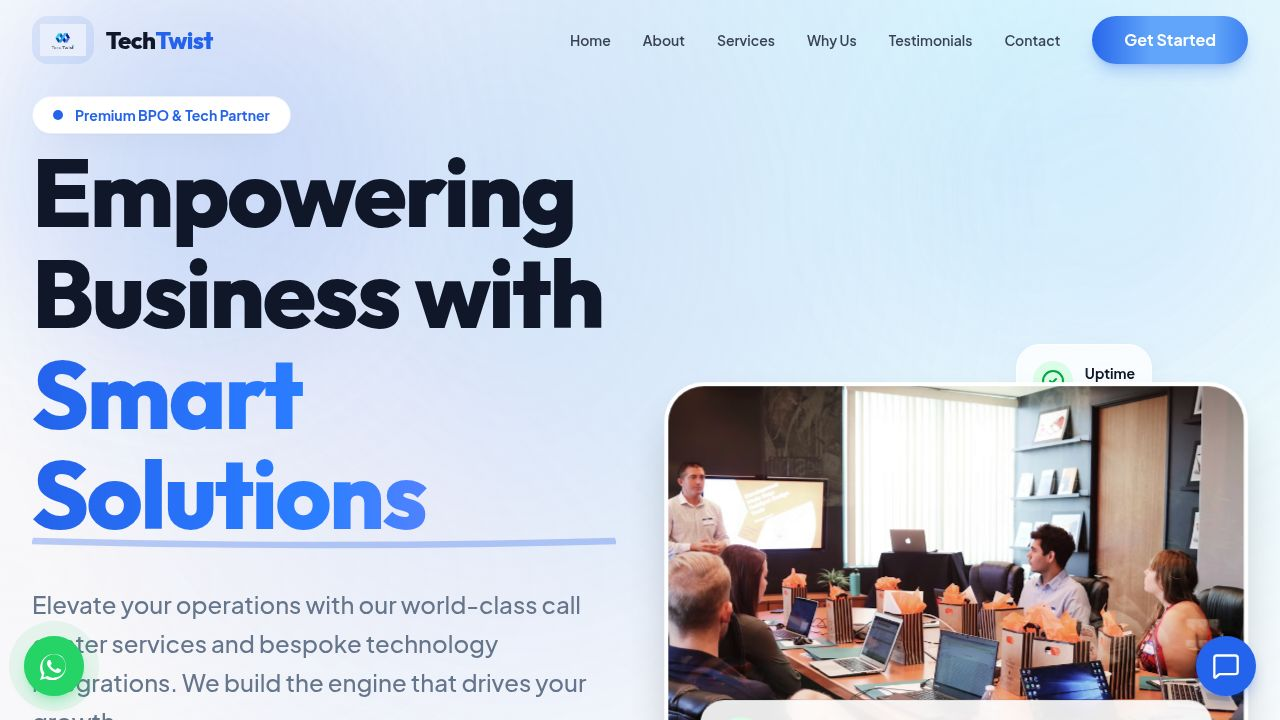
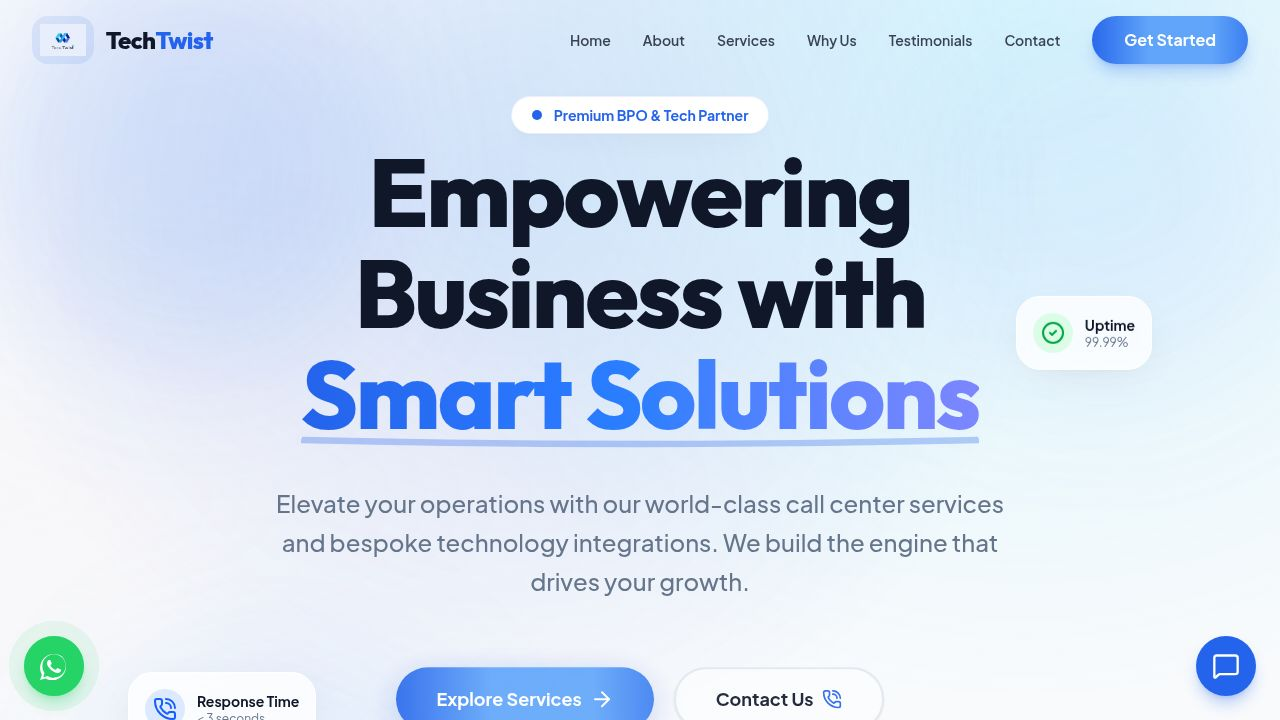
Remove the main image from the hero section and center content
Removes the right-side hero image and badge from `HeroSection.tsx` and adjusts layout and stats grid alignment. Also removes `opengraph.jpg`.

Replit-Commit-Author: Agent
Replit-Commit-Session-Id: a98e836a-7b45-4a6f-8c2e-8d22522812c9
Replit-Commit-Checkpoint-Type: full_checkpoint
Replit-Commit-Event-Id: 12e49693-ef15-4ae7-9519-c1db8b6c2a5f
Replit-Commit-Screenshot-Url: https://storage.googleapis.com/screenshot-production-us-central1/b10f4f53-28a6-49d7-90fb-6a129ad73a52/a98e836a-7b45-4a6f-8c2e-8d22522812c9/G5aOB1Z
Replit-Helium-Checkpoint-Created: true

diff --git a/artifacts/tech-twist/src/components/sections/HeroSection.tsx b/artifacts/tech-twist/src/components/sections/HeroSection.tsx
@@ -17,12 +17,12 @@ export function HeroSection() {
       </div>
 
       <div className="relative z-10 max-w-7xl mx-auto px-4 sm:px-6 lg:px-8">
-        <div className="grid lg:grid-cols-2 gap-12 items-center">
+        <div className="flex flex-col items-center text-center">
         <motion.div
           initial={{ opacity: 0, y: 40 }}
           animate={{ opacity: 1, y: 0 }}
           transition={{ duration: 0.8, ease: [0.16, 1, 0.3, 1] }}
-          className="space-y-10"
+          className="space-y-10 max-w-4xl"
         >
           <motion.div 
             initial={{ opacity: 0, scale: 0.9 }}
@@ -55,7 +55,7 @@ export function HeroSection() {
             initial={{ opacity: 0, y: 20 }}
             animate={{ opacity: 1, y: 0 }}
             transition={{ delay: 0.4, duration: 0.5 }}
-            className="flex flex-col sm:flex-row items-center justify-center gap-5 pt-6"
+            className="flex flex-col sm:flex-row items-center justify-center gap-5 pt-6 w-full"
           >
             <Button 
               size="lg" 
@@ -81,14 +81,14 @@ export function HeroSection() {
             transition={{ delay: 0.8, duration: 1 }}
             className="pt-16 pb-4"
           >
-            <div className="grid grid-cols-2 md:grid-cols-4 gap-8 md:gap-4 max-w-4xl border-t border-border/50 pt-8">
+            <div className="grid grid-cols-2 md:grid-cols-4 gap-8 md:gap-4 max-w-3xl mx-auto border-t border-border/50 pt-8">
               {[
                 { label: "Active Clients", value: "500+" },
                 { label: "Years Experience", value: "10+" },
                 { label: "Satisfaction", value: "99%" },
                 { label: "Support", value: "24/7" }
               ].map((stat, i) => (
-                <div key={i} className="flex flex-col items-start sm:items-center">
+                <div key={i} className="flex flex-col items-center">
                   <div className="text-3xl md:text-4xl font-extrabold text-foreground mb-1">{stat.value}</div>
                   <div className="text-sm font-semibold text-muted-foreground uppercase tracking-wider">{stat.label}</div>
                 </div>
@@ -96,37 +96,6 @@ export function HeroSection() {
             </div>
           </motion.div>
         </motion.div>
-
-        {/* Right side image */}
-        <motion.div
-          initial={{ opacity: 0, scale: 0.9, x: 20 }}
-          animate={{ opacity: 1, scale: 1, x: 0 }}
-          transition={{ duration: 0.8, delay: 0.2, ease: [0.16, 1, 0.3, 1] }}
-          className="relative hidden lg:block mt-10 lg:mt-0"
-        >
-          <div className="relative rounded-[2.5rem] overflow-hidden shadow-2xl aspect-[4/3] group border-4 border-white">
-            <div className="absolute inset-0 bg-gradient-to-tr from-primary/20 to-transparent mix-blend-overlay z-10 group-hover:bg-transparent transition-colors duration-500"></div>
-            <img 
-              src="https://images.unsplash.com/photo-1542744173-8e7e53415bb0?q=80&w=1200&auto=format&fit=crop" 
-              alt="Modern Call Center" 
-              className="w-full h-full object-cover group-hover:scale-105 transition-transform duration-700"
-              loading="lazy"
-            />
-            {/* Floating badge */}
-            <div className="absolute bottom-8 left-8 right-8 bg-white/90 backdrop-blur-md p-4 rounded-2xl shadow-xl z-20 animate-float border border-white/50">
-              <div className="flex items-center gap-4">
-                <div className="bg-green-100 p-3 rounded-full text-green-600">
-                  <svg className="w-6 h-6" fill="none" stroke="currentColor" viewBox="0 0 24 24"><path strokeLinecap="round" strokeLinejoin="round" strokeWidth="2" d="M13 7h8m0 0v8m0-8l-8 8-4-4-6 6"></path></svg>
-                </div>
-                <div>
-                  <div className="font-bold text-gray-900">Performance Driven</div>
-                  <div className="text-sm text-gray-600">Accelerating business growth</div>
-                </div>
-              </div>
-            </div>
-          </div>
-        </motion.div>
-
         </div>
       </div>
 